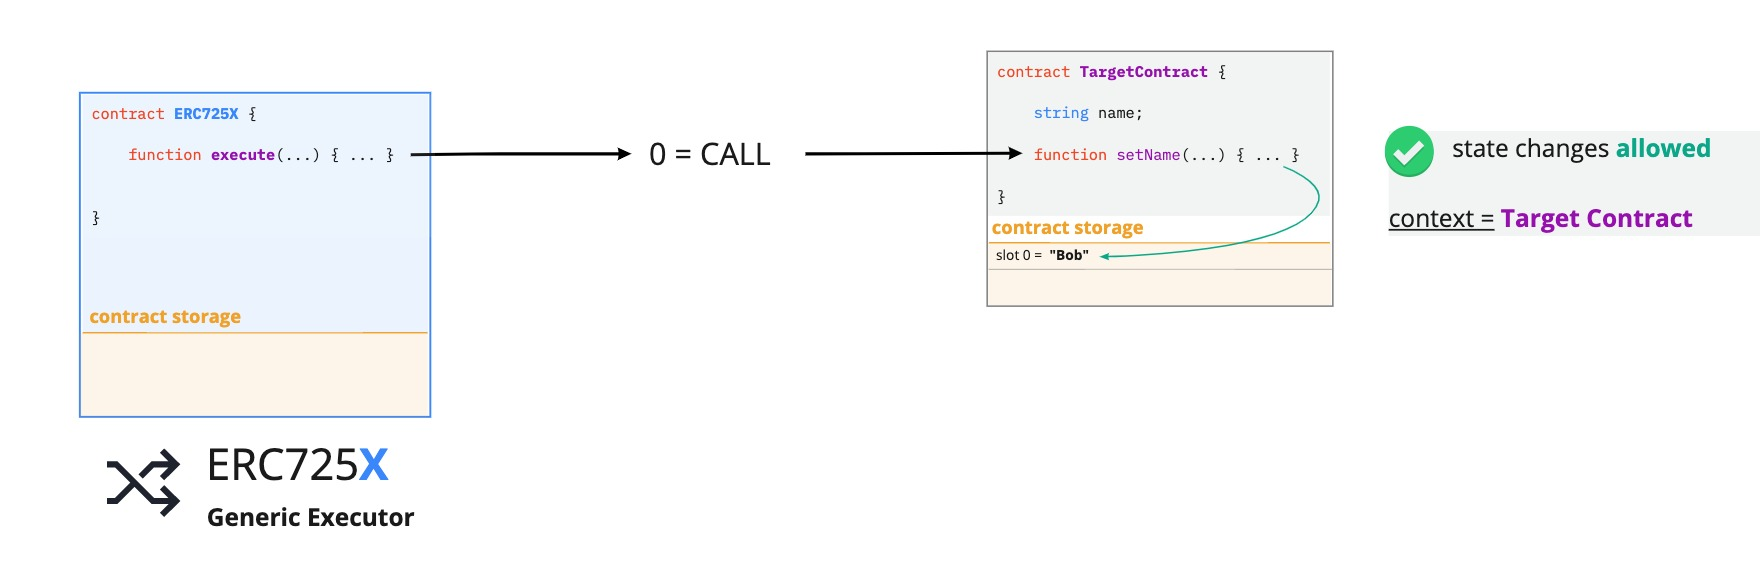
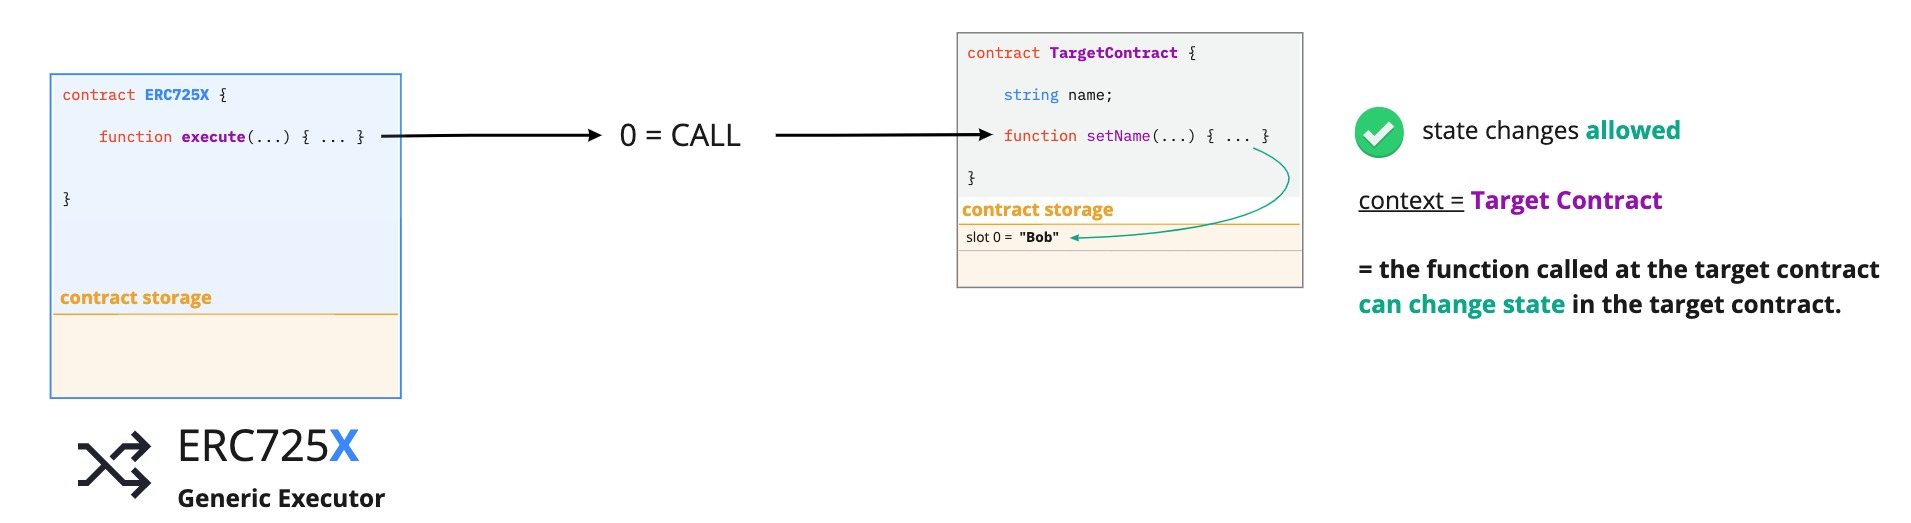
docs: edit ERC725X figures + DELEGATECALL explanation

diff --git a/docs/standards/universal-profile/01-lsp0-erc725account.md b/docs/standards/universal-profile/01-lsp0-erc725account.md
@@ -45,13 +45,13 @@ The ERC725X standard also enables deploying new smart contracts by providing the
 
 The following types of calls (= operation types) are available:
 
-| Operation number |                     Operation type                     | Description                                                                                                  |
-| :--------------: | :----------------------------------------------------: | :----------------------------------------------------------------------------------------------------------- |
-|        0         |                         `CALL`                         | call another smart contract                                                                                  |
-|        1         |                        `CREATE`                        | create a new smart contract with the associated bytecode passed as `_data`                                   |
-|        2         |  [`CREATE2`](https://eips.ethereum.org/EIPS/eip-1014)  | create a new smart contract with a **salt **(for pre-computed contract addresses)                            |
-|        3         | [`DELEGATECALL`](https://eips.ethereum.org/EIPS/eip-7) | call another smart contract, running function and modifying the state in the context of the calling contract |
-|        4         | [`STATICCALL`](https://eips.ethereum.org/EIPS/eip-214) | call another smart contract while disallowing any modification to the state during the call                  |
+| Operation number |                     Operation type                     | Description                                                                                                                             |
+| :--------------: | :----------------------------------------------------: | :-------------------------------------------------------------------------------------------------------------------------------------- |
+|        0         |                         `CALL`                         | call another smart contract                                                                                                             |
+|        1         |                        `CREATE`                        | create a new smart contract with the associated bytecode passed as `_data`                                                              |
+|        2         |  [`CREATE2`](https://eips.ethereum.org/EIPS/eip-1014)  | create a new smart contract with a **salt **(for pre-computed contract addresses)                                                       |
+|        3         | [`DELEGATECALL`](https://eips.ethereum.org/EIPS/eip-7) | run the function from another contract, but use and update the storage of the current contract (= persist `msg.sender` and `msg.value`) |
+|        4         | [`STATICCALL`](https://eips.ethereum.org/EIPS/eip-214) | call another smart contract while disallowing any modification to the state during the call                                             |
 
 # ![ERC725X operation type CALL](./../../../static/img/standards/erc725x-operation-type-call.jpeg)
 
